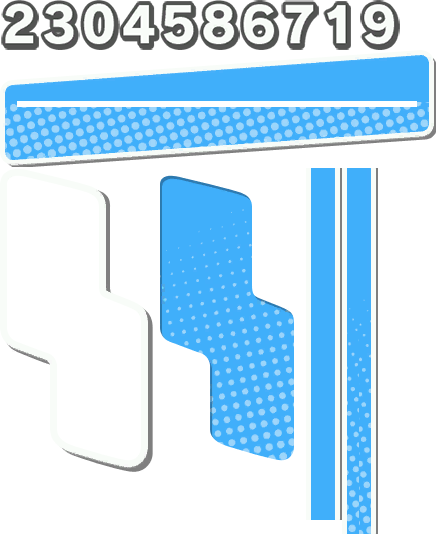
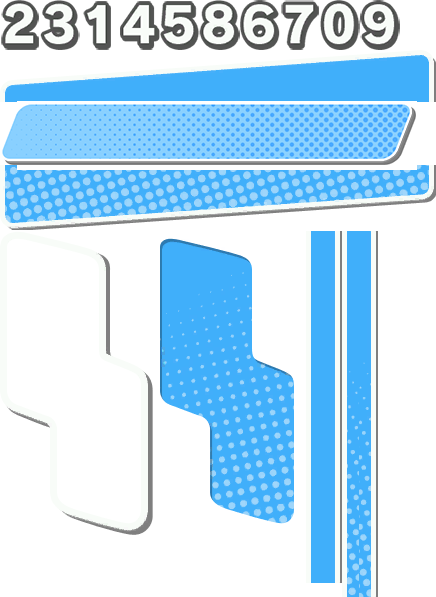
Loading indicator; Garbage Tray
I want to animate the garbage tray to make it nice, but that should wait until later...

diff --git a/src/components/Chainsim.vue b/src/components/Chainsim.vue
@@ -4,7 +4,10 @@
     <p>
       Canvas should appear below.
     </p>
-    <div ref="game">
+    <div id="game" ref="game">
+      <div class="loading-progress" v-if="!spritesheetLoaded">
+        <p><img class="loading-wheel" src="/img/save_wheel.png" style="vertical-align: middle">{{ loadingText }}</p>
+      </div>
     </div>
     <chainsim-puyo v-for="(sprite, index) in spriteMatrix1D" :key="`Puyo_${index}`" :index="index"
     :Simulator="Simulator" :fieldState="fieldState" :fieldData="fieldData" :sprite="spriteMatrix1D[index]"
@@ -16,6 +19,7 @@
     :spritesheet="sprites" :resources="pixiResources" :spritesheetLoaded="spritesheetLoaded"
     v-on:end-popping="togglePoppingCell" v-on:end-dropping="toggleDroppingCell" v-on:edit-puyo-field="editFieldData" />
     <chainsim-scoredisplay :scoreDisplay="scoreDisplay" :score="score" :spritesheetLoaded="spritesheetLoaded" :fieldSprites="fieldSprites" />
+    <chainsim-garbagetray :garbage="garbage" :spritesheet="sprites" :spritesheetLoaded="spritesheetLoaded" :garbageDisplay="garbageDisplay" />
     <br>
     <button @click="editFieldData">Change Puyo</button>
     <button @click="playStep">Play Step</button>
@@ -33,6 +37,7 @@ import Chainsim from '@/assets/js/chainsim'
 import ChainsimPuyo from './ChainsimPuyo'
 import ChainsimShadowPuyo from './ChainsimShadowPuyo'
 import ChainsimScoredisplay from './ChainsimScoredisplay'
+import ChainsimGarbagetray from './ChainsimGarbagetray'
 
 let loader = PIXI.loader
 let resources = PIXI.loader.resources
@@ -43,7 +48,8 @@ export default {
   components: {
     ChainsimPuyo,
     ChainsimShadowPuyo,
-    ChainsimScoredisplay
+    ChainsimScoredisplay,
+    ChainsimGarbagetray
   },
   data () {
     return {
@@ -100,7 +106,6 @@ export default {
       spriteMatrix: [[]],
       shadowSpriteMatrix: [[]],
       cursorString: '000000000000111010010101000010101010000101100101000000010101010010010001101010',
-      spritesheetLoaded: false,
       simulationSpeed: 1,
       chainAutoPlay: true,
 
@@ -118,7 +123,12 @@ export default {
       fieldSprites: {},
       fieldObjects: {},
       scoreDisplay: [],
-      scoreSprites: {}
+      scoreSprites: {},
+      garbageDisplay: [],
+
+      // Loader stuff
+      loadingText: 'Loading canvas...',
+      spritesheetLoaded: false
     }
   },
   created () {
@@ -213,7 +223,7 @@ export default {
     // Canvas stuff
     app: function () {
       return new PIXI.Application({
-        width: 608, // 608
+        width: 872, // 608
         height: 854, // 842
         antialias: true,
         transparent: false,
@@ -273,6 +283,9 @@ export default {
       let setup = () => {
         this.makeFieldSprites() // Chains into makeShadowArray()
       }
+
+      // Set loading message
+      this.loadingText = 'Loading...'
 
       // Load Sprites
       if (resources['/img/puyo.json'] === undefined ||
@@ -336,14 +349,20 @@ export default {
       // Next Window Border
       this.fieldObjects.nextWindowBorder = new Sprite(this.fieldSprites['next_border_1p.png'])
       this.fieldObjects.nextWindowBorder.x = 456
-      this.fieldObjects.nextWindowBorder.y = 12
+      this.fieldObjects.nextWindowBorder.y = 40
       this.app.stage.addChild(this.fieldObjects.nextWindowBorder)
 
       // Next Window Inner
       this.fieldObjects.nextWindowInner = new Sprite(this.fieldSprites['next_background_1p.png'])
       this.fieldObjects.nextWindowInner.x = 456
-      this.fieldObjects.nextWindowInner.y = 12
+      this.fieldObjects.nextWindowInner.y = 40
       this.app.stage.addChild(this.fieldObjects.nextWindowInner)
+
+      // Garbage Tray (opponent)
+      this.fieldObjects.garbageTray = new Sprite(this.fieldSprites['garbage_tray.png'])
+      this.fieldObjects.garbageTray.x = 456
+      this.fieldObjects.garbageTray.y = 360
+      this.app.stage.addChild(this.fieldObjects.garbageTray)
 
       // Chain into makeScoreDisplay
       this.makeScoreDisplay()
@@ -365,7 +384,7 @@ export default {
       // Chain into makePuyoSprites
       this.makePuyoSprites()
     },
-    makePuyoSprites: function () { // Chains into makeShadowSpriteArray
+    makePuyoSprites: function () { // Chains into makeGarbageSprites
       // Make Puyo sprites available
       this.sprites = resources['/img/puyo.json'].textures
 
@@ -388,6 +407,18 @@ export default {
         }
       }
       this.spriteMatrix = spriteArray
+      this.makeGarbageSprites()
+    },
+    makeGarbageSprites: function () { // Chains into makeShadowSpriteArray
+      let spriteArray = []
+      let startX = 468
+      for (let i = 0; i < this.Field.columns; i++) {
+        spriteArray[i] = new Sprite(this.sprites['crown.png'])
+        spriteArray[i].x = startX + spriteArray[i].width * i
+        spriteArray[i].y = 350
+        this.app.stage.addChild(spriteArray[i])
+      }
+      this.garbageDisplay = spriteArray
       this.makeShadowSpriteArray()
     },
     makeShadowSpriteArray: function () { // chains into makeChainPopupSprites
@@ -660,5 +691,43 @@ li {
 }
 a {
   color: #42b983;
+}
+
+#game {
+  position: relative;
+  width: auto;
+  height: auto;
+}
+
+.loading-progress {
+  position: absolute;
+  top: 0;
+  width: 100%;
+  text-align: center;
+}
+
+.loading-progress p {
+  font-weight: bold;
+  font-family: 'Segoe UI', Tahoma, Geneva, Verdana, sans-serif;
+  font-size: 1.7rem;
+  line-height: 0;
+  color: white;
+  text-shadow: 2px 2px black;
+  vertical-align: middle;
+}
+
+.loading-wheel {
+  width: 3rem;
+  height: 3rem;
+  animation: rotation 2s infinite linear;
+}
+
+@keyframes rotation {
+  from {
+    transform: rotate(0deg);
+  }
+  to {
+    transform: rotate(359deg);
+  }
 }
 </style>

diff --git a/scripts/spritesheet.js b/scripts/spritesheet.js
@@ -42,7 +42,7 @@ jsonBody += `      "pivot": {"x": 0.5, "y": 0.5}\n`
 jsonBody += `    },\n`
 
 jsonBody += `    "crown.png": {\n`
-jsonBody += `      "frame": {"x": 1328, "y": 792, "w": ${sprite.trimmedWidth}, "h": ${sprite.trimmedHeight}},\n`
+jsonBody += `      "frame": {"x": 720, "y": 792, "w": ${sprite.trimmedWidth}, "h": ${sprite.trimmedHeight}},\n`
 jsonBody += `      "rotated": false,\n`
 jsonBody += `      "trimmed": false,\n`
 jsonBody += `      "spriteSourceSize": {"x": 0, "y": 0, "w": ${sprite.trimmedWidth}, "h": ${sprite.trimmedHeight}},\n`
@@ -51,7 +51,7 @@ jsonBody += `      "pivot": {"x": 0.5, "y": 0.5}\n`
 jsonBody += `    },\n`
 
 jsonBody += `    "moon.png": {\n`
-jsonBody += `      "frame": {"x": 1400, "y": 792, "w": ${sprite.trimmedWidth}, "h": ${sprite.trimmedHeight}},\n`
+jsonBody += `      "frame": {"x": 792, "y": 792, "w": ${sprite.trimmedWidth}, "h": ${sprite.trimmedHeight}},\n`
 jsonBody += `      "rotated": false,\n`
 jsonBody += `      "trimmed": false,\n`
 jsonBody += `      "spriteSourceSize": {"x": 0, "y": 0, "w": ${sprite.trimmedWidth}, "h": ${sprite.trimmedHeight}},\n`
@@ -60,7 +60,7 @@ jsonBody += `      "pivot": {"x": 0.5, "y": 0.5}\n`
 jsonBody += `    },\n`
 
 jsonBody += `    "star.png": {\n`
-jsonBody += `      "frame": {"x": 1472, "y": 792, "w": ${sprite.trimmedWidth}, "h": ${sprite.trimmedHeight}},\n`
+jsonBody += `      "frame": {"x": 864, "y": 792, "w": ${sprite.trimmedWidth}, "h": ${sprite.trimmedHeight}},\n`
 jsonBody += `      "rotated": false,\n`
 jsonBody += `      "trimmed": false,\n`
 jsonBody += `      "spriteSourceSize": {"x": 0, "y": 0, "w": ${sprite.trimmedWidth}, "h": ${sprite.trimmedHeight}},\n`
@@ -69,7 +69,7 @@ jsonBody += `      "pivot": {"x": 0.5, "y": 0.5}\n`
 jsonBody += `    },\n`
 
 jsonBody += `    "rock.png": {\n`
-jsonBody += `      "frame": {"x": 1544, "y": 792, "w": ${sprite.trimmedWidth}, "h": ${sprite.trimmedHeight}},\n`
+jsonBody += `      "frame": {"x": 936, "y": 792, "w": ${sprite.trimmedWidth}, "h": ${sprite.trimmedHeight}},\n`
 jsonBody += `      "rotated": false,\n`
 jsonBody += `      "trimmed": false,\n`
 jsonBody += `      "spriteSourceSize": {"x": 0, "y": 0, "w": ${sprite.trimmedWidth}, "h": ${sprite.trimmedHeight}},\n`
@@ -78,7 +78,7 @@ jsonBody += `      "pivot": {"x": 0.5, "y": 0.5}\n`
 jsonBody += `    },\n`
 
 jsonBody += `    "line.png": {\n`
-jsonBody += `      "frame": {"x": 1616, "y": 792, "w": ${sprite.trimmedWidth}, "h": ${sprite.trimmedHeight}},\n`
+jsonBody += `      "frame": {"x": 1008, "y": 792, "w": ${sprite.trimmedWidth}, "h": ${sprite.trimmedHeight}},\n`
 jsonBody += `      "rotated": false,\n`
 jsonBody += `      "trimmed": false,\n`
 jsonBody += `      "spriteSourceSize": {"x": 0, "y": 0, "w": ${sprite.trimmedWidth}, "h": ${sprite.trimmedHeight}},\n`
@@ -87,7 +87,7 @@ jsonBody += `      "pivot": {"x": 0.5, "y": 0.5}\n`
 jsonBody += `    },\n`
 
 jsonBody += `    "unit.png": {\n`
-jsonBody += `      "frame": {"x": 1688, "y": 792, "w": ${sprite.trimmedWidth}, "h": ${sprite.trimmedHeight}},\n`
+jsonBody += `      "frame": {"x": 1080, "y": 792, "w": ${sprite.trimmedWidth}, "h": ${sprite.trimmedHeight}},\n`
 jsonBody += `      "rotated": false,\n`
 jsonBody += `      "trimmed": false,\n`
 jsonBody += `      "spriteSourceSize": {"x": 0, "y": 0, "w": ${sprite.trimmedWidth}, "h": ${sprite.trimmedHeight}},\n`

diff --git a/src/components/ChainsimGarbagetray.vue b/src/components/ChainsimGarbagetray.vue
@@ -1,0 +1,91 @@
+<script>
+export default {
+  name: 'ChainsimGarbagetray',
+  props: ['garbage', 'spritesheet', 'spritesheetLoaded', 'garbageDisplay'],
+  render: function (h) {
+    return h() // Render nothing, avoid error output.
+  },
+  data () {
+    return {
+      icons: [null, null, null, null, null, null]
+    }
+  },
+  methods: {
+    countGarbage: function (g, i) {
+      this.checkCrown(g, i)
+    },
+    checkCrown: function (g, i) {
+      if (i < 6) {
+        if (g - 720 >= 0) {
+          this.icons.splice(i, 1, 'crown')
+          this.checkCrown(g - 720, i + 1)
+        } else {
+          this.checkMoon(g, i)
+        }
+      }
+    },
+    checkMoon: function (g, i) {
+      if (i < 6) {
+        if (g - 360 >= 0) {
+          this.icons.splice(i, 1, 'moon')
+          this.checkStar(g - 360, i + 1)
+        } else {
+          this.checkStar(g, i)
+        }
+      }
+    },
+    checkStar: function (g, i) {
+      if (i < 6) {
+        if (g - 180 >= 0) {
+          this.icons.splice(i, 1, 'star')
+          this.checkRock(g - 180, i + 1)
+        } else {
+          this.checkRock(g, i)
+        }
+      }
+    },
+    checkRock: function (g, i) {
+      if (i < 6) {
+        if (g - 30 >= 0) {
+          this.icons.splice(i, 1, 'rock')
+          this.checkRock(g - 30, i + 1)
+        } else {
+          this.checkLine(g, i)
+        }
+      }
+    },
+    checkLine: function (g, i) {
+      if (i < 6) {
+        if (g - 6 >= 0) {
+          this.icons.splice(i, 1, 'line')
+          this.checkLine(g - 6, i + 1)
+        } else {
+          this.checkUnit(g, i)
+        }
+      }
+    },
+    checkUnit: function (g, i) {
+      if (i < 6) {
+        if (g - 1 >= 0) {
+          this.icons.splice(i, 1, 'unit')
+          this.checkUnit(g - 1, i + 1)
+        }
+      }
+    }
+  },
+  watch: {
+    spritesheetLoaded: function () {
+      this.countGarbage(this.garbage, 0)
+      for (let i = 0; i < 6; i++) {
+        this.garbageDisplay[i].texture = this.spritesheet[`${this.icons[i]}.png`]
+      }
+    },
+    garbage: function () {
+      this.countGarbage(this.garbage, 0) // second parameter is i, the index for icons (array)
+      for (let i = 0; i < 6; i++) {
+        this.garbageDisplay[i].texture = this.spritesheet[`${this.icons[i]}.png`]
+      }
+    }
+  }
+}
+</script>
